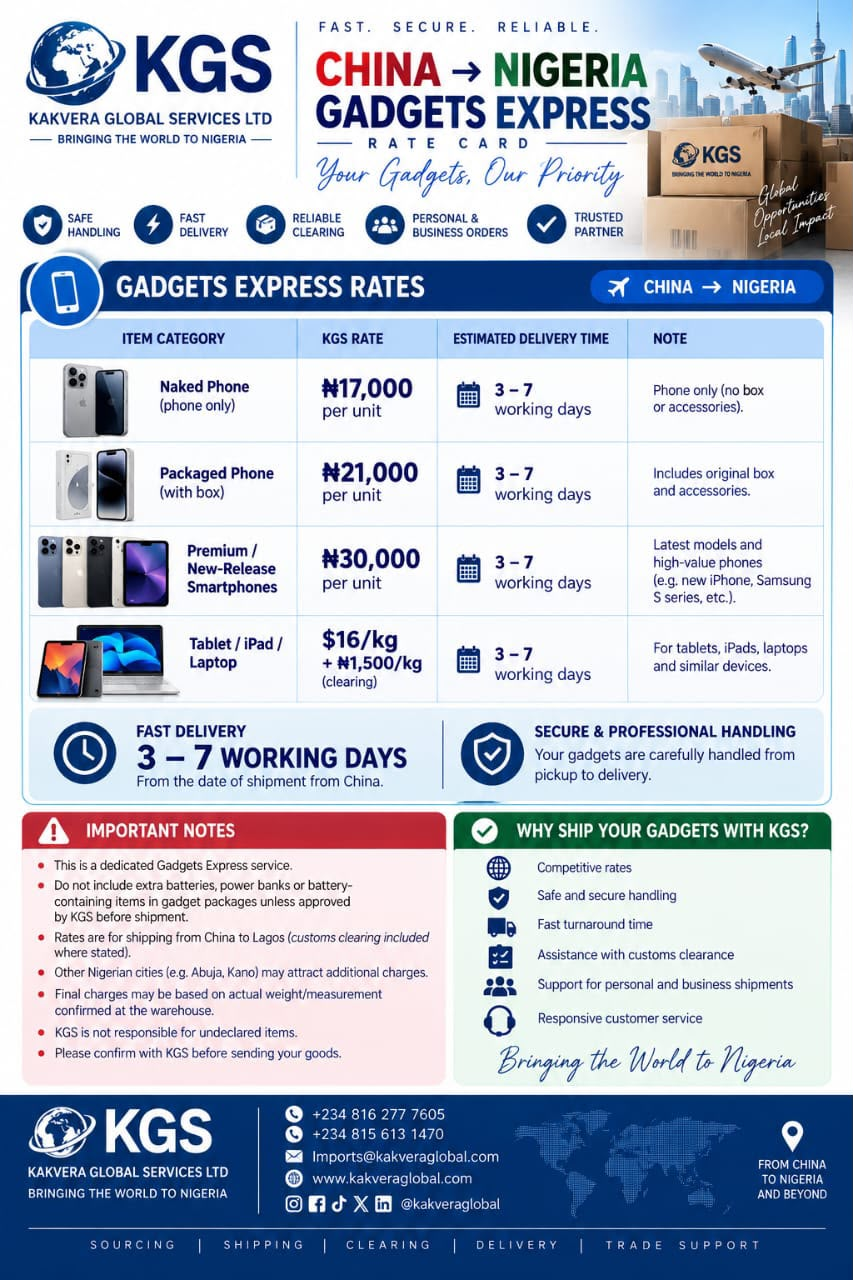
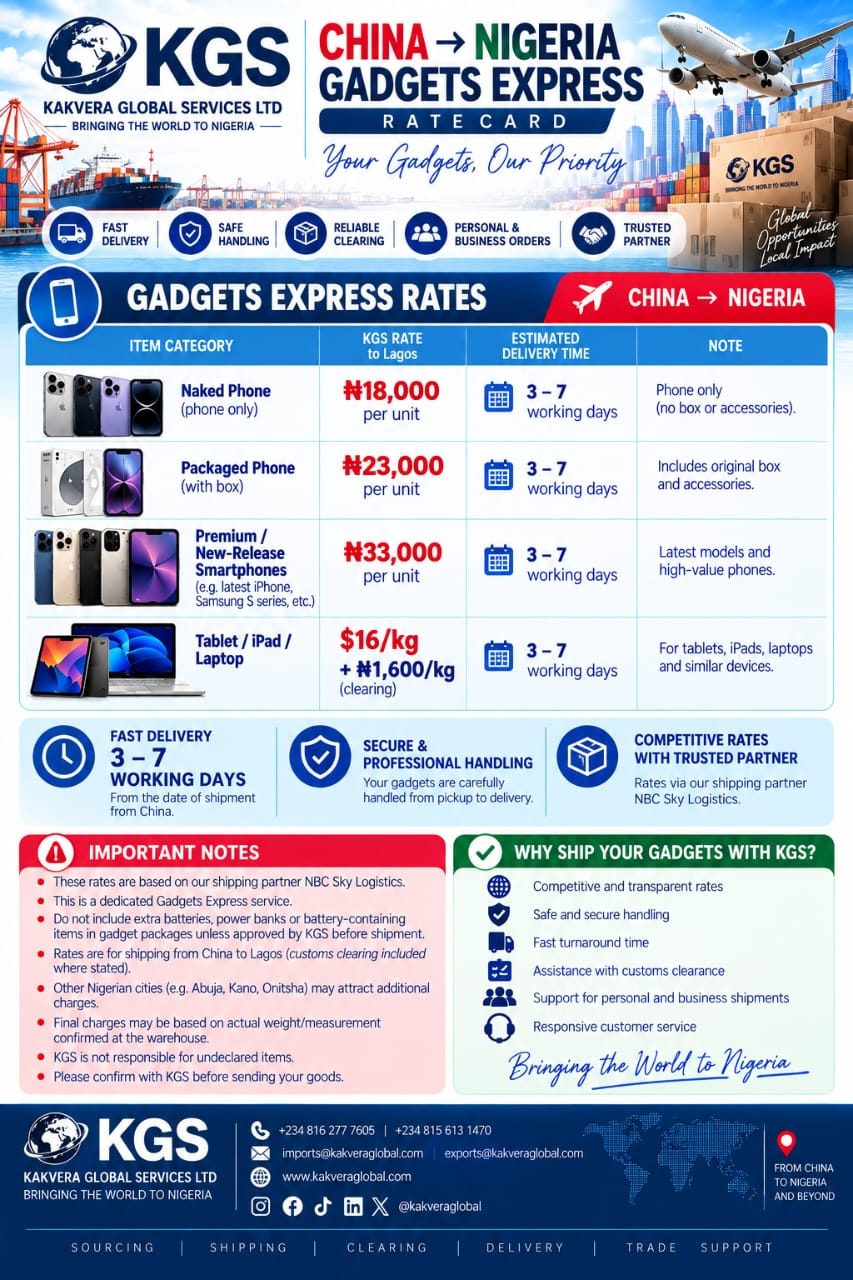
Update China and Gadgets shipping rates with destination pricing
Refresh China → Nigeria air/sea and Gadgets Express rates, add Lagos/Onitsha/Abuja/Kano destination tabs, and replace the related rate-card images.

diff --git a/src/pages/ShippingRates.tsx b/src/pages/ShippingRates.tsx
@@ -88,7 +88,7 @@ const ShippingRates = () => {
           <div className="grid grid-cols-1 md:grid-cols-2 gap-4">
             {[
               'Air freight is charged on the greater of actual or volumetric weight where applicable.',
-              'Rates apply to Lagos unless otherwise stated. Abuja, Kano and other cities may attract additional charges.',
+              'Rates apply to Lagos unless otherwise stated. Abuja, Kano and Onitsha are via Skyjet and attract higher rates.',
               'Batteries, sensitive goods and restricted items must be declared before shipment.',
               'Final charges are based on weight/measurement confirmed at the warehouse.',
               'Rates may change due to airline, customs, exchange-rate or freight-market adjustments.',
@@ -239,75 +239,209 @@ const InfoList = ({
   );
 };
 
-const ChinaRates = () => (
-  <div>
-    <RateCardHeader
-      title="China → Nigeria Shipping Rates"
-      description="Air and sea freight options from Guangzhou and Hong Kong, including express and battery goods."
-      downloadHref="/rate-cards/china-nigeria.jpg"
-      downloadLabel="Download rate card"
-    />
+type DestinationId = 'lagos' | 'onitsha' | 'abuja' | 'kano';
 
-    <div className="mb-4 flex items-center gap-2 text-blue-800 font-semibold">
-      <Plane className="h-5 w-5" />
-      Air Cargo
-    </div>
-    <RateTable
-      headers={['Service', 'Freight', 'Lagos clearance', 'Transit']}
-      rows={[
-        ['Guangzhou (normal goods)', '$9.20/kg', '₦1,200/kg', '7 – 15 days'],
-        ['Hong Kong (normal & sensitive)', '$9.60/kg', '₦1,200/kg', '10 – 15 days'],
-        [
-          <>
-            Express air cargo
-            <span className="ml-2 inline-block text-xs font-semibold text-red-700 bg-red-100 px-2 py-0.5 rounded">
-              Urgent
-            </span>
-          </>,
-          '$15.00/kg',
-          '₦1,500/kg',
-          '3 – 7 days',
-        ],
-        ['Battery goods (Hong Kong)', '$11.00/kg', '₦1,500/kg', '10 – 15 days'],
-      ]}
-    />
+const destinationRates: Record<
+  DestinationId,
+  {
+    label: string;
+    note: string;
+    airTransit: string;
+    airNormal: string;
+    airSensitive: string;
+    airClearing: string;
+    seaTransit: string;
+    seaRows: (string | React.ReactNode)[][];
+  }
+> = {
+  lagos: {
+    label: 'Lagos',
+    note: 'Primary destination · separate freight + clearing',
+    airTransit: '7 – 15 days',
+    airNormal: '$9.20/kg',
+    airSensitive: '$9.90/kg',
+    airClearing: '₦1,200/kg',
+    seaTransit: '45 – 60 days',
+    seaRows: [
+      ['Normal goods', '$135/CBM + ₦285,000/CBM clearing'],
+      ['Battery goods', '$145/CBM + ₦295,000/CBM clearing'],
+    ],
+  },
+  onitsha: {
+    label: 'Onitsha',
+    note: 'Via Skyjet · higher destination rate',
+    airTransit: '7 – 15 days',
+    airNormal: '$10.20/kg',
+    airSensitive: '$11.50/kg',
+    airClearing: '₦1,600/kg',
+    seaTransit: '45 – 60 days',
+    seaRows: [
+      ['Normal goods (all-in)', '$395/CBM'],
+      ['Battery goods', 'Accepted — declare before shipment'],
+    ],
+  },
+  abuja: {
+    label: 'Abuja',
+    note: 'Via Skyjet · higher destination rate',
+    airTransit: '7 – 15 days',
+    airNormal: '$10.60/kg',
+    airSensitive: '$11.80/kg',
+    airClearing: '₦1,600/kg',
+    seaTransit: '45 – 60 days',
+    seaRows: [
+      ['Normal goods (all-in)', '$400/CBM'],
+      ['Battery goods', 'Accepted — declare before shipment'],
+    ],
+  },
+  kano: {
+    label: 'Kano',
+    note: 'Via Skyjet · higher destination rate',
+    airTransit: '7 – 15 days',
+    airNormal: '$11.90/kg',
+    airSensitive: '$12.80/kg',
+    airClearing: '₦1,600/kg',
+    seaTransit: '45 – 60 days',
+    seaRows: [
+      ['Normal goods (all-in)', '$450/CBM'],
+      ['Battery goods', 'Accepted — declare before shipment'],
+    ],
+  },
+};
 
-    <div className="mt-10 mb-4 flex items-center gap-2 text-green-800 font-semibold">
-      <Ship className="h-5 w-5" />
-      Sea Cargo
-    </div>
-    <RateTable
-      headers={['Service', 'Freight', 'Lagos clearance', 'Transit']}
-      rows={[
-        ['China sea shipping (normal goods)', '$135/CBM', '₦280,000/CBM', '45 – 60 days'],
-        ['China sea shipping (battery goods)', '$138/CBM', '₦295,000/CBM', '45 – 60 days'],
-      ]}
-    />
+const ChinaRates = () => {
+  const [destination, setDestination] = useState<DestinationId>('lagos');
+  const active = destinationRates[destination];
 
-    <div className="grid grid-cols-1 lg:grid-cols-2 gap-6 mt-8">
-      <InfoList
-        title="Small-volume sea shipments"
-        tone="blue"
-        items={[
-          'Minimum chargeable volume: 0.1 CBM.',
-          'Shipments below 0.1 CBM are charged as 0.1 CBM.',
-          'Example: 0.05 CBM or 0.08 CBM → charged as 0.1 CBM.',
-          'Example: 0.25 CBM → charged as 0.25 CBM.',
+  return (
+    <div>
+      <RateCardHeader
+        title="China → Nigeria Shipping Rates"
+        description="Updated air and sea rates from China, with Lagos service options plus destination rates for Onitsha, Abuja and Kano."
+        downloadHref="/rate-cards/china-nigeria.jpg"
+        downloadLabel="Download rate card"
+      />
+
+      <div className="mb-8 flex flex-wrap gap-3">
+        <a
+          href="/rate-cards/china-nigeria-destinations.jpg"
+          download
+          className="inline-flex items-center justify-center px-5 py-3 bg-white border border-gray-300 text-gray-800 font-medium rounded-lg hover:bg-gray-50 transition-colors"
+        >
+          <Download className="h-4 w-4 mr-2" />
+          Download destination rates
+        </a>
+      </div>
+
+      <div className="mb-4 flex items-center gap-2 text-blue-800 font-semibold">
+        <Plane className="h-5 w-5" />
+        Lagos service options (detailed)
+      </div>
+      <RateTable
+        headers={['Service', 'Freight', 'Lagos clearance', 'Transit']}
+        rows={[
+          ['Guangzhou (normal goods)', '$9.20/kg', '₦1,200/kg', '7 – 15 days'],
+          ['Hong Kong (sensitive goods)', '$9.90/kg', '₦1,200/kg', '10 – 15 days'],
+          [
+            <>
+              Express air cargo
+              <span className="ml-2 inline-block text-xs font-semibold text-red-700 bg-red-100 px-2 py-0.5 rounded">
+                Urgent
+              </span>
+            </>,
+            '$16.00/kg',
+            '₦1,500/kg',
+            '3 – 7 days',
+          ],
+          ['Battery goods (Hong Kong)', '$12.00/kg', '₦1,500/kg', '10 – 15 days'],
         ]}
       />
-      <InfoList
-        title="China route notes"
-        tone="red"
-        items={[
-          'Air shipments below 3kg attract a higher per-kg rate.',
-          'Batteries and battery-containing items must be declared before shipment.',
-          'Rates apply to Lagos unless otherwise stated.',
-          'Confirm with KGS before sending goods to the warehouse.',
+
+      <div className="mt-10 mb-4 flex items-center gap-2 text-green-800 font-semibold">
+        <Ship className="h-5 w-5" />
+        Lagos sea cargo
+      </div>
+      <RateTable
+        headers={['Service', 'Freight', 'Lagos clearance', 'Transit']}
+        rows={[
+          ['China sea shipping (normal goods)', '$135/CBM', '₦285,000/CBM', '45 – 60 days'],
+          ['China sea shipping (battery goods)', '$145/CBM', '₦295,000/CBM', '45 – 60 days'],
         ]}
       />
+
+      <div className="mt-12 mb-4">
+        <h3 className="text-2xl font-bold text-gray-900 mb-2">Rates by destination</h3>
+        <p className="text-gray-600 mb-4">
+          Compare China → Nigeria rates for Lagos, Onitsha, Abuja and Kano. Onitsha, Abuja and Kano move via Skyjet and attract higher rates.
+        </p>
+        <div className="flex flex-wrap gap-2 mb-6">
+          {(Object.keys(destinationRates) as DestinationId[]).map((id) => (
+            <button
+              key={id}
+              type="button"
+              onClick={() => setDestination(id)}
+              className={`px-4 py-2 rounded-lg text-sm font-semibold transition-colors ${
+                destination === id
+                  ? 'bg-blue-700 text-white'
+                  : 'bg-white border border-gray-200 text-gray-700 hover:bg-blue-50 hover:text-blue-800'
+              }`}
+            >
+              {destinationRates[id].label}
+            </button>
+          ))}
+        </div>
+
+        <div className="bg-white rounded-lg border border-gray-200 shadow-sm p-6 mb-6">
+          <div className="flex flex-col sm:flex-row sm:items-center sm:justify-between gap-2 mb-4">
+            <h4 className="text-xl font-bold text-gray-900">{active.label}</h4>
+            <p className="text-sm text-blue-800 font-medium">{active.note}</p>
+          </div>
+
+          <div className="mb-3 flex items-center gap-2 text-blue-800 font-semibold">
+            <Plane className="h-5 w-5" />
+            Air cargo · {active.airTransit}
+          </div>
+          <RateTable
+            headers={['Goods type', 'Freight', 'Customs clearing']}
+            rows={[
+              ['Normal goods', active.airNormal, active.airClearing],
+              ['Sensitive goods', active.airSensitive, active.airClearing],
+            ]}
+          />
+
+          <div className="mt-8 mb-3 flex items-center gap-2 text-green-800 font-semibold">
+            <Ship className="h-5 w-5" />
+            Sea cargo · {active.seaTransit}
+          </div>
+          <RateTable headers={['Details', 'Rate']} rows={active.seaRows} />
+        </div>
+      </div>
+
+      <div className="grid grid-cols-1 lg:grid-cols-2 gap-6 mt-8">
+        <InfoList
+          title="Small-volume sea shipments"
+          tone="blue"
+          items={[
+            'Minimum chargeable volume: 0.1 CBM.',
+            'Shipments below 0.1 CBM are charged as 0.1 CBM.',
+            'Example: 0.05 CBM or 0.08 CBM → charged as 0.1 CBM.',
+            'Example: 0.25 CBM → charged as 0.25 CBM.',
+          ]}
+        />
+        <InfoList
+          title="China route notes"
+          tone="red"
+          items={[
+            'Air shipments below 3kg attract a higher per-kg rate.',
+            'Batteries, electronics, liquids, cosmetics and medicines must be declared.',
+            'Do not include extra batteries or power banks in normal packages without approval.',
+            'Abuja, Kano and Onitsha deliveries/clearance are via Skyjet and cost more.',
+            'Confirm with KGS before sending goods to the warehouse.',
+          ]}
+        />
+      </div>
     </div>
-  </div>
-);
+  );
+};
 
 const GadgetsRates = () => (
   <div>
@@ -320,22 +454,22 @@ const GadgetsRates = () => (
 
     <div className="mb-4 flex items-center gap-2 text-blue-800 font-semibold">
       <Package className="h-5 w-5" />
-      Gadgets Express Rates
+      Gadgets Express Rates (to Lagos)
     </div>
     <RateTable
-      headers={['Item category', 'KGS rate', 'Delivery', 'Note']}
+      headers={['Item category', 'KGS rate to Lagos', 'Delivery', 'Note']}
       rows={[
-        ['Naked phone (phone only)', '₦17,000 / unit', '3 – 7 working days', 'No box or accessories'],
-        ['Packaged phone (with box)', '₦21,000 / unit', '3 – 7 working days', 'Includes original box & accessories'],
+        ['Naked phone (phone only)', '₦18,000 / unit', '3 – 7 working days', 'No box or accessories'],
+        ['Packaged phone (with box)', '₦23,000 / unit', '3 – 7 working days', 'Includes original box & accessories'],
         [
           'Premium / new-release smartphones',
-          '₦30,000 / unit',
+          '₦33,000 / unit',
           '3 – 7 working days',
           'Latest models & high-value phones',
         ],
         [
           'Tablet / iPad / Laptop',
-          '$16/kg + ₦1,500/kg clearing',
+          '$16/kg + ₦1,600/kg clearing',
           '3 – 7 working days',
           'Tablets, iPads, laptops & similar devices',
         ],
@@ -365,9 +499,10 @@ const GadgetsRates = () => (
         tone="red"
         items={[
           'Dedicated Gadgets Express service only.',
+          'Rates via shipping partner NBC Sky Logistics.',
           'Do not include extra batteries, power banks or battery items unless approved by KGS.',
           'Rates are for China to Lagos (clearing included where stated).',
-          'Other Nigerian cities (e.g. Abuja, Kano) may attract additional charges.',
+          'Other Nigerian cities (e.g. Abuja, Kano, Onitsha) may attract additional charges.',
           'KGS is not responsible for undeclared items.',
         ]}
       />
@@ -375,7 +510,7 @@ const GadgetsRates = () => (
         title="Why ship gadgets with KGS?"
         tone="green"
         items={[
-          'Competitive rates',
+          'Competitive rates with trusted partner',
           'Safe and secure handling',
           'Fast turnaround time',
           'Assistance with customs clearance',

diff --git a/PROJECT_NOTES.md b/PROJECT_NOTES.md
@@ -26,6 +26,7 @@ Ongoing notes for the Kakvera website so later sessions can pick up quickly.
   - RC: `9263583`
   - Contact map removed → **Partner With Us — coming soon** placeholder
 - **Brand imagery update** — Home hero, About Our Story, and all four Services section images replaced with KGS branded assets in `/public/`.
+- **China rates refresh** — Updated China → Nigeria + Gadgets Express prices; added Lagos/Onitsha/Abuja/Kano destination rates under China tab.
 
 ## Company / contact (current)
 
